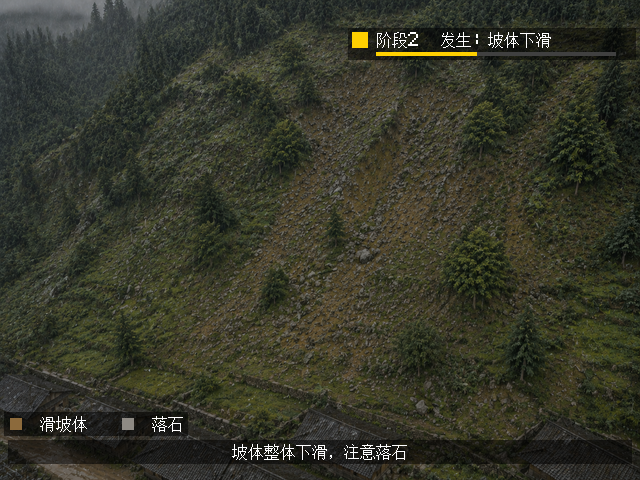
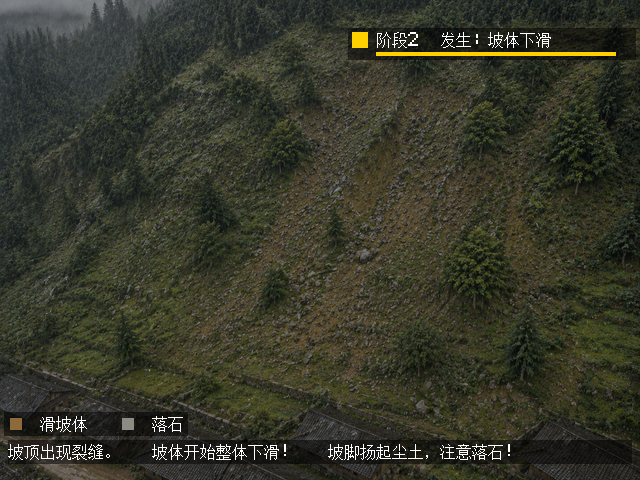
fix: match the reference project's scene OSD pixel for pixel
The real-RTL renders of the landslide card now equal the reference
project's STAGE1/2/4 and WARN previews in every pixel. Fixes found by
comparing against it:
- subtitles are the stage's whole narration (segments up to 255
  characters; the 31-character limit had forced condensed lines);
- the warning text scrolls in the bottom band like a subtitle, the alert
  block blinks and the frame is ff2020 (was a centred 2x red line, ff0000);
- the scene and publicity applications hide the top-left status line and
  its dimmed band (COMPAT keeps them).

Tools: a stage without subtitle: uses its narration; legends up to 38
cells, subtitles and warnings up to 60 characters. tb_m6_text models the
new behaviour; 24 mutants are detected.

diff --git a/diagnostics/annotate_tool/test_annotate_tool.py b/diagnostics/annotate_tool/test_annotate_tool.py
@@ -44,26 +44,40 @@ class CardTextStatus(unittest.TestCase):
         for k in ('village', 'warning'):
             cfg.pop(k)
         for st in cfg['stages']:
-            st.pop('title'), st.pop('subtitle'), st.pop('legend', None)
+            st.pop('title'), st.pop('subtitle', None), st.pop('legend', None), st.pop('narration', None)
         self.assertEqual(tool.card_text_status(cfg)[0], 'none')
+
+    def test_subtitle_defaults_to_the_narration(self):
+        cfg = load_cfg()
+        self.assertNotIn('subtitle', cfg['stages'][1])
+        spec = tool.mcn.text_spec(cfg, 'scene.yaml')
+        lines = [str(l['text']) for l in sorted(cfg['stages'][1]['narration'], key=lambda d: d['t'])]
+        self.assertEqual(spec['subtitles'][1], tool.mcn.normal('  '.join(lines)))
+        cfg['stages'][1]['subtitle'] = '自定字幕'
+        self.assertEqual(tool.mcn.text_spec(cfg, 'scene.yaml')['subtitles'][1], '自定字幕')
 
     def test_partial_and_bad_text(self):
         cfg = load_cfg()
-        del cfg['stages'][2]['subtitle']
+        del cfg['stages'][2]['title']
+        state, why = tool.card_text_status(cfg)
+        self.assertEqual(state, 'bad')
+        self.assertIn('title', why)
+        cfg = load_cfg()
+        cfg['stages'][2]['narration'] = []                                 # no subtitle and no narration
         state, why = tool.card_text_status(cfg)
         self.assertEqual(state, 'bad')
         self.assertIn('subtitle', why)
         cfg = load_cfg()
-        cfg['stages'][0]['subtitle'] = '字' * 25
-        self.assertEqual(tool.card_text_status(cfg)[0], 'bad')            # 24 characters at most
-        cfg['stages'][0]['subtitle'] = '字' * 24
+        cfg['stages'][0]['subtitle'] = '字' * 61
+        self.assertEqual(tool.card_text_status(cfg)[0], 'bad')            # 60 characters at most
+        cfg['stages'][0]['subtitle'] = '字' * 60
         self.assertEqual(tool.card_text_status(cfg)[0], 'ok')
         cfg = load_cfg()
         cfg['stages'][1]['title'] = '字' * 17
         self.assertEqual(tool.card_text_status(cfg)[0], 'bad')            # titles and the village: 16
         cfg = load_cfg()
-        cfg['warning'] = '红' * 20
-        self.assertEqual(tool.card_text_status(cfg)[0], 'bad')            # 19 at most
+        cfg['warning'] = '红' * 61
+        self.assertEqual(tool.card_text_status(cfg)[0], 'bad')            # 60 at most (it scrolls)
         cfg = load_cfg()
         cfg['village'] = 'ABC村'
         state, why = tool.card_text_status(cfg)
@@ -72,7 +86,7 @@ class CardTextStatus(unittest.TestCase):
         cfg = load_cfg()
         for n, st in enumerate(cfg['stages']):                            # more than 128 distinct glyphs
             st['title'] = ''.join(chr(0x4e00 + n * 40 + i) for i in range(16))
-            st['subtitle'] = ''.join(chr(0x5000 + n * 40 + i) for i in range(24))
+            st['subtitle'] = ''.join(chr(0x5000 + n * 40 + i) for i in range(30))
         cfg['village'] = ''.join(chr(0x6000 + i) for i in range(16))
         cfg['warning'] = ''.join(chr(0x6100 + i) for i in range(19))
         state, why = tool.card_text_status(cfg)
@@ -95,10 +109,10 @@ class Legends(unittest.TestCase):
         self.assertEqual(state, 'bad')
         self.assertIn('purple', why)
         cfg = load_cfg()
-        cfg['stages'][3]['legend'] = [['danger', '危' * 16], ['route', '路' * 12]]       # 18 + 14 + 2 cells
+        cfg['stages'][3]['legend'] = [['danger', '危' * 20], ['route', '路' * 15]]       # 22 + 17 + 2 cells
         state, why = tool.card_text_status(cfg)
         self.assertEqual(state, 'bad')
-        self.assertIn('31', why)
+        self.assertIn('38', why)
 
     def test_legends_make_a_fourteen_segment_text(self):
         cfg = load_cfg()

diff --git a/tools/mountain_port/make_card_narration.py b/tools/mountain_port/make_card_narration.py
@@ -12,14 +12,19 @@ written files are read back, and every other file under the card's
 情景模式 and 宣讲模式 folders must stay byte-identical.
 
 With --legends the stage's `legend: [[swatch, text], ...]` is written as well (TEXT.BIN with
-14 segments, one 16 px legend line per stage, at most 31 cells): this needs the v0.25 S5
-firmware, which also reads the 10-segment files; older firmware rejects the 14-segment one.
+14 segments, one 16 px legend line per stage, at most 38 cells as in the reference project).
+
+As in the reference project, a stage without `subtitle:` uses its whole narration as the
+subtitle (the lines' text joined by two spaces).
 
 Display limits (scene_text_overlay, 16 px cells): the title and the village name sit in
-the 256 px wide top-right panel (at most 16 characters); the warning is shown centred
-at 2x (at most 19); the subtitle moves left 2 px per frame at 60 frames per second, so a
-subtitle of n characters is gone after (624+16n)/120 s: at most 24 characters finish
-inside one 8.5 s stage.
+the 256 px wide top-right panel (at most 16 characters); the subtitle, and the warning
+in warning mode, move left through the bottom band at 2 px per frame (60 frames per
+second), so the last of n characters has come in after 16n/120 s: at most 60 characters
+are all shown within one 8.5 s stage.
+
+Firmware: segments longer than 31 characters (the narration subtitles) and the 14-segment
+legend file need the v0.25 S5 firmware; older firmware rejects them and shows no text.
 """
 import argparse
 import hashlib
@@ -42,7 +47,7 @@ import scene_audio  # noqa: E402
 
 FOLDERS = {'landslide_village': 1, 'debris_village': 2, 'flood_village': 3, 'quake_village': 4}
 NAMES = ['FONT.BIN', 'TEXT.BIN'] + [f'SND{i}.PCM' for i in range(1, 5)]
-STATIC_CELLS, TITLE_CELLS, SUBTITLE_CELLS, LEGEND_CELLS = 19, 16, 24, 31   # STATIC_CELLS: the warning
+TITLE_CELLS, SUBTITLE_CELLS, WARNING_CELLS, LEGEND_CELLS = 16, 60, 60, 38
 MIN_SAMPLES = scene_audio.T_END * scene_audio.SAMPLES_PER_T + scene_audio.SAMPLE_HZ // 2
 
 
@@ -58,10 +63,17 @@ def normal(s):
     return ''.join(FULLWIDTH.get(c, c) for c in str(s))
 
 
+def stage_subtitle(stage):
+    """The stage's subtitle: `subtitle:` if given, else its narration lines joined by two spaces."""
+    if stage.get('subtitle'):
+        return str(stage['subtitle'])
+    return '  '.join(str(line['text']) for line in sorted(stage.get('narration') or [], key=lambda d: d['t']))
+
+
 def text_spec(cfg, where, legends=False):
     stages = cfg['stages']
     assert len(stages) == 4, f'{where}: four stages'
-    spec = {'titles': [normal(s['title']) for s in stages], 'subtitles': [normal(s['subtitle']) for s in stages],
+    spec = {'titles': [normal(s['title']) for s in stages], 'subtitles': [normal(stage_subtitle(s)) for s in stages],
             'warning': normal(cfg['warning']), 'village': normal(cfg['village'])}
     if legends:
         spec['legends'] = [legend_string(s.get('legend'), f'{where}: stage {n + 1} legend') for n, s in enumerate(stages)]
@@ -70,7 +82,7 @@ def text_spec(cfg, where, legends=False):
         if not any(spec['legends']):
             del spec['legends']
     for label, values, limit in (('title', spec['titles'], TITLE_CELLS), ('subtitle', spec['subtitles'], SUBTITLE_CELLS),
-                                 ('warning', [spec['warning']], STATIC_CELLS), ('village', [spec['village']], TITLE_CELLS)):
+                                 ('warning', [spec['warning']], WARNING_CELLS), ('village', [spec['village']], TITLE_CELLS)):
         for v in values:
             assert 0 < len(v) <= limit, f'{where}: {label} {v!r} has {len(v)} characters (1..{limit})'
     return spec

diff --git a/tools/mountain_port/annotate_scene.py b/tools/mountain_port/annotate_scene.py
@@ -539,11 +539,11 @@ class App:
         f.pack(padx=10, pady=8)
         cells = {}
         rows = [('村名', 'village', self.cfg.get('village', ''), f'预警（KEY1）时显示在右上角面板里，≤{mcn.TITLE_CELLS} 字'),
-                ('预警语', 'warning', self.cfg.get('warning', ''), f'预警（KEY1）时画面正中的红字，≤{mcn.STATIC_CELLS} 字')]
+                ('预警语', 'warning', self.cfg.get('warning', ''), f'预警（KEY1）时在底部字幕条里滚动，≤{mcn.WARNING_CELLS} 字')]
         for n, st in enumerate(self.cfg['stages']):
             rows.append((f'PIC{n + 1} 标题', f'title{n}', st.get('title', ''), f'右上角面板，≤{mcn.TITLE_CELLS} 字'))
             rows.append((f'PIC{n + 1} 字幕', f'subtitle{n}', st.get('subtitle', ''),
-                         f'画面下方滚动，≤{mcn.SUBTITLE_CELLS} 字（8.5 秒内能滚完）'))
+                         f'底部滚动，≤{mcn.SUBTITLE_CELLS} 字；留空就用整段旁白（和参考项目一样）'))
             rows.append((f'PIC{n + 1} 图例', f'legend{n}', format_legend(st.get('legend')),
                          '左下一行：色块名 文字; 色块名 文字'))
         status = ttk.Label(f, text='', anchor='w')

diff --git a/diagnostics/mountain_scene/test_scene_text.py b/diagnostics/mountain_scene/test_scene_text.py
@@ -39,11 +39,12 @@ class SceneTextTests(unittest.TestCase):
         self.assertLessEqual(len(font), 4096)
 
     def test_bounds_and_escapes(self):
-        spec = dict(titles=['0'*31]*4, subtitles=[ESCAPES]*4)
+        # v0.25 S5: a segment may hold up to 255 characters (a stage's whole narration).
+        spec = dict(titles=['0'*255]*4, subtitles=[ESCAPES]*4)
         font, text, _ = encode_text(spec, self.cfg['stages'])
         self.assertEqual(len(font), 416)
         self.assertIn(bytes(range(0xf0, 0x100)), text)
-        for changed in [dict(titles=['0'*32]*4), dict(subtitles=['A']*4), dict(titles=['1']*3)]:
+        for changed in [dict(titles=['0'*256]*4), dict(subtitles=['A']*4), dict(titles=['1']*3)]:
             with self.assertRaises(ValueError):
                 encode_text(spec | changed, self.cfg['stages'])
         # 116 distinct new CJK glyphs exceed the 115 remaining slots.

diff --git a/tools/scene_text.py b/tools/scene_text.py
@@ -70,8 +70,8 @@ def encode_text(spec, stages):
         if len(legends) != 4:
             raise ValueError("text needs four legend lines (empty ones allowed)")
         segments += list(legends)       # segments 10-13: needs v0.25 S5 firmware
-    if any(not isinstance(s, str) or len(s) > 31 for s in segments):
-        raise ValueError("each text segment must contain at most 31 characters")
+    if any(not isinstance(s, str) or len(s) > 255 for s in segments):
+        raise ValueError("each text segment must contain at most 255 characters")
     # Preserve all original bit patterns, including the older hand drawn glyphs.
     source = repo_root() / "user_source/hdl_source/osd/osd_font_cn_16x16.v"
     matches = re.findall(r"8'h(8[0-9a-c]): bits = 256'([bh])([01a-f0-9]+);", source.read_text(encoding="utf-8"))

diff --git a/docs/场景标注工具使用说明.md b/docs/场景标注工具使用说明.md
@@ -371,17 +371,18 @@ FPGA 只按这两项信息实时渲染，不认识具体是哪张图。所以换
 | 项 | 显示在哪里 | 限制 |
 |---|---|---|
 | 村名 | 预警（场景里短按 KEY1）时，替代标题显示在右上角面板里 | ≤16 字 |
-| 预警语 | 预警（场景里短按 KEY1）时，画面正中的红字 | ≤19 字 |
+| 预警语 | 预警（场景里短按 KEY1）时，在底部字幕条里滚动（同时红框和告警色块闪烁） | ≤60 字 |
 | 每个阶段的标题 | 右上角深色面板里，色块的右边，白字 | ≤16 字 |
-| 每个阶段的字幕 | 画面最下方的深色条里，白字，从右向左滚动 | **≤24 字**：字幕每帧向左滚 2 个像素，24 字刚好能在 8.5 秒的阶段里完整滚过去 |
-| 每个阶段的图例 | 画面左下的深色条里，白字，前面带色块 | ≤31 格（见下） |
+| 每个阶段的字幕 | 画面最下方的深色条里，白字，从右向左滚动 | **≤60 字**。**留空就用这个阶段的整段旁白**（各句之间空两格），和参考项目一样。字幕每帧向左滚 2 个像素，60 字的最后一个字约 8 秒滚进画面 |
+| 每个阶段的图例 | 画面左下的深色条里，白字，前面带色块 | ≤38 格（见下） |
 
 - 汉字、全角标点和数字都可以；数字、`: . - / !` 用板上的 5×7 小字显示。**不能用英文字母和半角问号**。
 - 整张卡用到的不同汉字和标点最多约 **115 种**（字库上限 128 个字模，板上原有的 13 个占掉了前 13 个位置），超了窗口会提示。
-- 字幕不用抄旁白全文，写成精简的一句话。
-- **图例**：一行“色块 文字”，色块之间用分号隔开，例如 `danger 危险区; route 撤离路线; refuge 避险点`。色块名和颜色：`danger` 红、`route` 绿、`refuge` 亮绿（慢闪）、`mud` 泥褐、`zone` 黄、`fault` 红橙、`rock` 灰、`rain` 浅蓝，和动画里的配色一致。一个色块占 2 格（色块加空格），文字每字 1 格，色块组之间空 2 格，整行不超过 31 格。图例可以只填部分阶段，不填的阶段不显示图例。**图例会让 TEXT.BIN 变成 14 段，需要 v0.25 S5 及以后的固件**；旧固件读到 14 段的文件会认为文字文件有错，整个场景的字都不显示。
+- 字幕可以不填：不填就把这个阶段的旁白各句连起来滚动，和参考项目的卡一样。想换成更短的一句话，再自己填。
+- **图例**：一行“色块 文字”，色块之间用分号隔开，例如 `danger 危险区; route 撤离路线; refuge 避险点`。色块名和颜色：`danger` 红、`route` 绿、`refuge` 亮绿（慢闪）、`mud` 泥褐、`zone` 黄、`fault` 红橙、`rock` 灰、`rain` 浅蓝，和动画里的配色一致。一个色块占 2 格（色块加空格），文字每字 1 格，色块组之间空 2 格，整行不超过 38 格。图例可以只填部分阶段，不填的阶段不显示图例。
 - 不用填也行：不填就不生成 `FONT.BIN`/`TEXT.BIN`，板上场景模式回退到只显示色块和预警红框，没有字。
-- **进度条和告警色块不用填，也不需要 TEXT.BIN**：v0.25 S5 起，场景模式右上角总有一块深色面板：左边是告警色块（致因蓝、发生黄、后果橙、撤离和预警红，预警时闪烁），右边是阶段标题，标题下面是一条进度条（原来在那里的累计时间和“SCENE 1/4”页码标签都已经去掉），进度条一个像素对应一个时刻 t，走满 240 像素就是这个阶段的结尾。
+- **进度条和告警色块不用填，也不需要 TEXT.BIN**：v0.25 S5 起，场景模式右上角总有一块深色面板：左边是告警色块（致因蓝、发生黄、后果橙、撤离和预警红，预警时闪烁），右边是阶段标题，标题下面是一条进度条，进度条一个像素对应一个时刻 t，走满 240 像素就是这个阶段的结尾。原来在右上角的累计时间、“SCENE 1/4”页码标签，以及左上角的“PIC:1 MANU”状态行，在场景和宣讲模式里都不显示了（普通相册模式的状态行保留）。
+- **固件要求**：带图例的 14 段 TEXT.BIN、超过 31 字的字幕（整段旁白），都需要 v0.25 S5 及以后的固件；旧固件读到会认为文字文件有错，整个场景的字都不显示。
 - 点“确定”后改动先留在内存里，保存（Ctrl+S）才写进 scene.yaml。
 
 **旁白**：窗口里只显示每个阶段有几句旁白、几句有录音。旁白在 scene.yaml 里写，打开文件，在阶段下面加：
@@ -442,7 +443,7 @@ FPGA 只按这两项信息实时渲染，不认识具体是哪张图。所以换
 | 板上场景没有字，只有色块 | 这张卡没有 `FONT.BIN`/`TEXT.BIN`：卡文字没填全，或者没有安装 |
 | 填了图例，板上所有字都没了 | 固件比 v0.25 S5 旧：它不认 14 段的 TEXT.BIN。换新固件，或者把图例都清空再生成 |
 | 图例的色块名报错 | 色块名只能是 danger route refuge mud zone fault rock rain（小写英文），后面空一格再写文字 |
-| 板上字幕没有滚完就换阶段了 | 字幕超过 24 字，或者手动按 KEY2 提前换了阶段。字幕按帧滚动，和播放速度无关；自动播放（AUTO）会等旁白读完（至少 8.5 秒），24 字以内能滚完。精简字幕 |
+| 板上字幕没有滚完就换阶段了 | 字幕太长，或者手动按 KEY2 提前换了阶段。字幕按帧滚动，和播放速度无关；自动播放（AUTO）会等旁白读完（至少 8.5 秒），约 60 字以内能全部滚进画面。精简字幕 |
 | 安装时提示“PIC 头部不是 灾害 N 阶段 M” | 场景包过期或灾害类型改过。重新“保存并生成场景包”再安装 |
 | 新卡装进去后，菜单里它在别的位置 | 菜单位置由灾害类型决定（第 9.4 节），不能自己选格子 |
 | 旁白和画面对不上 | `narration` 的 `t` 填的是画面里对应动作的时刻。在“动画”预览里拖时间条，找到那个动作的时刻再改 |

diff --git a/tools/mountain_port/scenes/README.md b/tools/mountain_port/scenes/README.md
@@ -49,10 +49,10 @@ py -I -X utf8 tools/mountain_port/make_scene_pack.py tools/mountain_port/scenes/
 ```
 
 - scene.yaml 顶层 `village:`（村名）、`warning:`（预警语）；每个阶段 `title:`（标题）、`subtitle:`（底部滚动字幕）、可选的 `legend:`（图例，`[[色块, 文字], ...]`）。**村名、预警语、四个阶段各 `title` 和 `subtitle` 缺一不可**，缺了 `--text` 会报错退出。
-- `--legends`：把各阶段的 `legend` 一起写进 TEXT.BIN（14 段，v0.25 S5 起的固件才认；不加这个参数仍是 10 段，新旧固件都认）。色块：`danger` 红、`route` 绿、`refuge` 亮绿（慢闪）、`mud` 泥褐、`zone` 黄、`fault` 红橙、`rock` 灰、`rain` 浅蓝（取自 hazard_v3 配色）。一行图例 ≤31 格。
-- 显示位置（`scene_text_overlay`，版式照参考项目的 `tools/scenes/*/out/osd` 示意图）：全部是白色 16 像素字，压在半暗的底上。右上角面板（x 348–635，y 28–59）：左边告警色块，右边阶段标题（预警时是村名），标题下面是进度条；左下图例（y 416–431，底带 y 412–435）；最下面字幕（y 444–459，底带 y 440–463），每帧向左滚 2 个像素；预警（KEY1）时画面正中仍是 2 倍大的红色预警语，并有闪烁的红框，图例保留。
-- 场景 HUD（v0.25 S5，不需要 TEXT.BIN）：右上角面板里的告警色块（x 352–367，y 32–47，预警时闪烁）和进度条（x 376–615，y 52–55，一个像素对应一个 t，底色深灰、已走部分用告警色）。告警色按阶段：致因蓝 `2080ff`、发生黄 `ffd000`、后果橙 `ff8000`、撤离和预警红 `ff2020`。右上角原来的累计时间（分:秒）和“SCENE 1/4”页码标签在 v0.25 都去掉了（顶层参数 `TIMESTAMP_ENABLE=0`；`publicity_status_overlay` 的 `SHOW_PAGE=0`，只剩 BUSY/ERROR/NO SET 和语音出错时的提示）。
-- 限制（`make_card_narration.text_spec` 检查）：标题和村名 ≤16 字（面板宽 256 像素）；预警语 ≤19 字；字幕 ≤24 字（每帧 2 像素、每秒 60 帧，(624+16n)/120 秒滚完，24 字 8.4 秒，在 8.5 秒的阶段内）；整张卡不同的字形最多 128 个，其中前 13 个固定是板上原有的 case 字库字形（米醋电子工作室忧郁胆肥嘟的）。
+- `--legends`：把各阶段的 `legend` 一起写进 TEXT.BIN（14 段）。色块：`danger` 红、`route` 绿、`refuge` 亮绿（慢闪）、`mud` 泥褐、`zone` 黄、`fault` 红橙、`rock` 灰、`rain` 浅蓝（取自 hazard_v3 配色）。一行图例 ≤38 格（和参考项目相同）。
+- 显示位置（`scene_text_overlay`，版式照参考项目的 `tools/scenes/*/out/osd` 示意图；用 `diagnostics/lut_opt25/tb_osd_render.sv` 把真实 RTL 渲染到同一张底图上，四张示意图逐像素一致）：全部是白色 16 像素字，压在半暗的底上。右上角面板（x 348–635，y 28–59）：左边告警色块，右边阶段标题（预警时是村名），标题下面是进度条；左下图例（y 416–431，底带 y 412–435）；最下面字幕（y 444–459，底带 y 440–463），每帧向左滚 2 个像素。预警（KEY1）时和参考项目一样：底部字幕条换成预警语滚动，告警色块和 8 像素红框（`ff2020`）一起闪烁，图例保留。
+- 场景 HUD（v0.25 S5，不需要 TEXT.BIN）：右上角面板里的告警色块（x 352–367，y 32–47，预警时闪烁）和进度条（x 376–615，y 52–55，一个像素对应一个 t，底色深灰、已走部分用告警色）。告警色按阶段：致因蓝 `2080ff`、发生黄 `ffd000`、后果橙 `ff8000`、撤离和预警红 `ff2020`。右上角的累计时间（`TIMESTAMP_ENABLE=0`）、“SCENE 1/4”页码标签（`publicity_status_overlay` 的 `SHOW_PAGE=0`，只剩 BUSY/ERROR/NO SET 和语音出错时的提示）去掉了；和参考项目一样，左上角的“PIC:n AUTO E:xx”状态行及其暗底在场景和宣讲模式里也不显示（普通相册模式保留）。
+- 限制（`make_card_narration.text_spec` 检查）：标题和村名 ≤16 字（面板宽 256 像素）；字幕和预警语 ≤60 字（每帧 2 像素、每秒 60 帧，第 n 个字在 16n/120 秒时滚进画面，60 字 8 秒）；每段最多 255 字（固件）；整张卡不同的字形最多 128 个，其中前 13 个固定是板上原有的 case 字库字形（米醋电子工作室忧郁胆肥嘟的）。没写 `subtitle:` 的阶段用整段旁白作字幕（各句 `text` 之间两个空格），和参考项目一样。
 - 数字、`: . - / !`（含全角的 ０–９ ：！ ． － ／ 和全角空格）用 5×7 小字显示，不占字库；汉字和全角标点（，。？等）作为字形放进 FONT.BIN，用宋体 16px 渲染。**不支持英文字母和半角 `?`。**
 - FONT.BIN：每字 32 字节，第 r 行为字节 2r（左 8 点）和 2r+1（右 8 点），高位在左。TEXT.BIN v1：`"TX"`、版本 1、段数 10，随后 10 个描述符 `{起始偏移低字节, 高字节, 长度, 类型}`，字符从第 44 字节起。段号固定：0 标题 1、1 字幕 1、2 标题 2、3 字幕 2、……、6 标题 4、7 字幕 4、8 预警语、9 村名。字符码：0x00–0x7F 字形序号，0xE0–0xE7 图例色块（只用在图例里），0xF0–0xF9 数字，0xFA 空格、0xFB `:`、0xFC `.`、0xFD `-`、0xFE `/`、0xFF `!`。
 - 14 段版本（`--legends`）：段数字节为 14，描述符到第 60 字节，字符从第 60 字节起，多出的四段是图例（段 10–13，类型 4，段 10+阶段号）。图例每项是色块码、空格、文字，项之间空两格；某个阶段没有图例就是长度 0 的段。**A 项目的 14 段版本段号顺序不同**（0 村名、1–4 标题 …），本项目是在原来 10 段后面接了 4 段，所以两边的 TEXT.BIN 不能互换。

diff --git a/diagnostics/lut_opt25/osd_preview/README.md b/diagnostics/lut_opt25/osd_preview/README.md
@@ -1,14 +1,14 @@
 # 场景 OSD 渲染预览（v0.25 S5）
 
-用真实的 `scene_text_overlay` RTL 在滑坡卡的真实阶段图上渲染出来的画面，对照参考项目的示意图 `demo_v_0_0/tools/scenes/landslide_village/out/osd/STAGE*.png`、`WARN.png`。不是示意，是仿真输出。
+用真实的 `scene_text_overlay` RTL 在滑坡卡的真实阶段图上渲染出来的画面（不是示意，是仿真输出），卡用 [s5-card.2](../../../releases/v0.25.0/s5-card.2/README.md)。
+
+**与参考项目的示意图 `demo_v_0_0/tools/scenes/landslide_village/out/osd/STAGE1/2/4.png`、`WARN.png` 逐像素一致**（四张都是 0 个像素不同；渲染时 t=239、字幕首字放在 x=8、慢闪处于“亮”，与示意图的取法相同）。
 
 | 文件 | 内容 |
 |---|---|
-| `landslide_stage1.png` | 阶段 1，t=60，字幕滚到一半 |
-| `landslide_stage2.png` | 阶段 2，t=100，字幕滚到一半 |
-| `landslide_stage4.png` | 阶段 4（撤离），t=239，进度条满 |
-| `landslide_warn.png` | 预警：右上面板显示村名，正中红字，红框闪烁 |
+| `landslide_stage1.png` | 阶段 1（致因） |
+| `landslide_stage2.png` | 阶段 2（发生） |
+| `landslide_stage4.png` | 阶段 4（撤离），图例里三个色块 |
+| `landslide_warn.png` | 预警：面板显示村名，底部字幕条滚动预警语，红框和告警色块闪烁 |
 
-避险点（亮绿）色块慢闪，预览帧恰好是“灭”的那一帧，所以图例里看不到它。
-
-重新渲染：`tb_osd_render.sv`（仿真测试台，输入 `bg.hex`/`font.hex`/`text.hex`，输出 `frame.hex`）、`osd_preview/prep.py`（PNG → bg.hex）、`osd_preview/topng.py`（frame.hex → PNG）。命令行参数 `+STAGE=n +WARN=0/1 +T=t +SCROLL=px +FRAMES=n`。
+重新渲染：`tb_osd_render.sv`（输入 `bg.hex`/`font.hex`/`text.hex`，输出 `frame.hex`）、`osd_preview/prep.py`（PNG → bg.hex）、`osd_preview/topng.py`（frame.hex → PNG）；参数 `+STAGE=n +WARN=0/1 +T=t +SCROLL=px +FRAMES=n`。和示意图对齐：`+T=239 +SCROLL=624`，正常帧 `+FRAMES=32`，预警帧 `+FRAMES=48`。

diff --git a/docs/滑坡卡制作教程.md b/docs/滑坡卡制作教程.md
@@ -363,16 +363,17 @@
    |---|---|
    | 村名 | `青石坡村` |
    | 预警语 | `红色预警！立即横向撤离滑坡区！` |
-   | PIC1 标题 / 字幕 | `阶段1 致因：强降雨` / `持续强降雨，山坡吸饱了水` |
-   | PIC2 标题 / 字幕 | `阶段2 发生：坡体下滑` / `坡体整体下滑，注意落石` |
-   | PIC3 标题 / 字幕 | `阶段3 后果：掩埋房屋` / `滑坡掩埋了坡脚房屋和道路` |
-   | PIC4 标题 / 字幕 | `阶段4 撤离：横向离开` / `横向离开滑坡区，不要过桥` |
+   | PIC1 标题 | `阶段1 致因：强降雨` |
+   | PIC2 标题 | `阶段2 发生：坡体下滑` |
+   | PIC3 标题 | `阶段3 后果：掩埋房屋` |
+   | PIC4 标题 | `阶段4 撤离：横向离开` |
+   | PIC1–4 字幕 | **留空**：生成时自动用这个阶段的整段旁白（第 2 步）。没有旁白就要填一句 |
    | PIC1 图例 | `zone 滑坡隐患区; rain 强降雨` |
    | PIC2 图例 | `mud 滑坡体; rock 落石` |
    | PIC3 图例 | `mud 堆积掩埋区` |
    | PIC4 图例 | `danger 危险区; route 撤离路线; refuge 避险点` |
 
-   标题和村名不超过 16 字，预警语不超过 19 字，字幕不超过 24 字，图例一行不超过 31 格。图例要求板子固件是 v0.25 S5 或更新，旧固件可以先不填。填错了，窗口下方的红字会告诉你原因；全对了显示绿色的“可以生成”。点“确定”。
+   标题和村名不超过 16 字，预警语和字幕不超过 60 字，图例一行不超过 38 格。图例和长字幕要求板子固件是 v0.25 S5 或更新。填错了，窗口下方的红字会告诉你原因；全对了显示绿色的“可以生成”。点“确定”。
 2. 想加旁白的话，在 scene.yaml 里给每个阶段加 `narration`，写法见 [使用说明](场景标注工具使用说明.md) 第 9.3 节。**这一步可以先不做**：没有旁白的卡也能用，只是没有声音。仓库里现成的卡有 36 句录音（`tools/mountain_port/scenes/landslide_village/voice/`），可以对着它的 scene.yaml 学。
 
 **生成**
